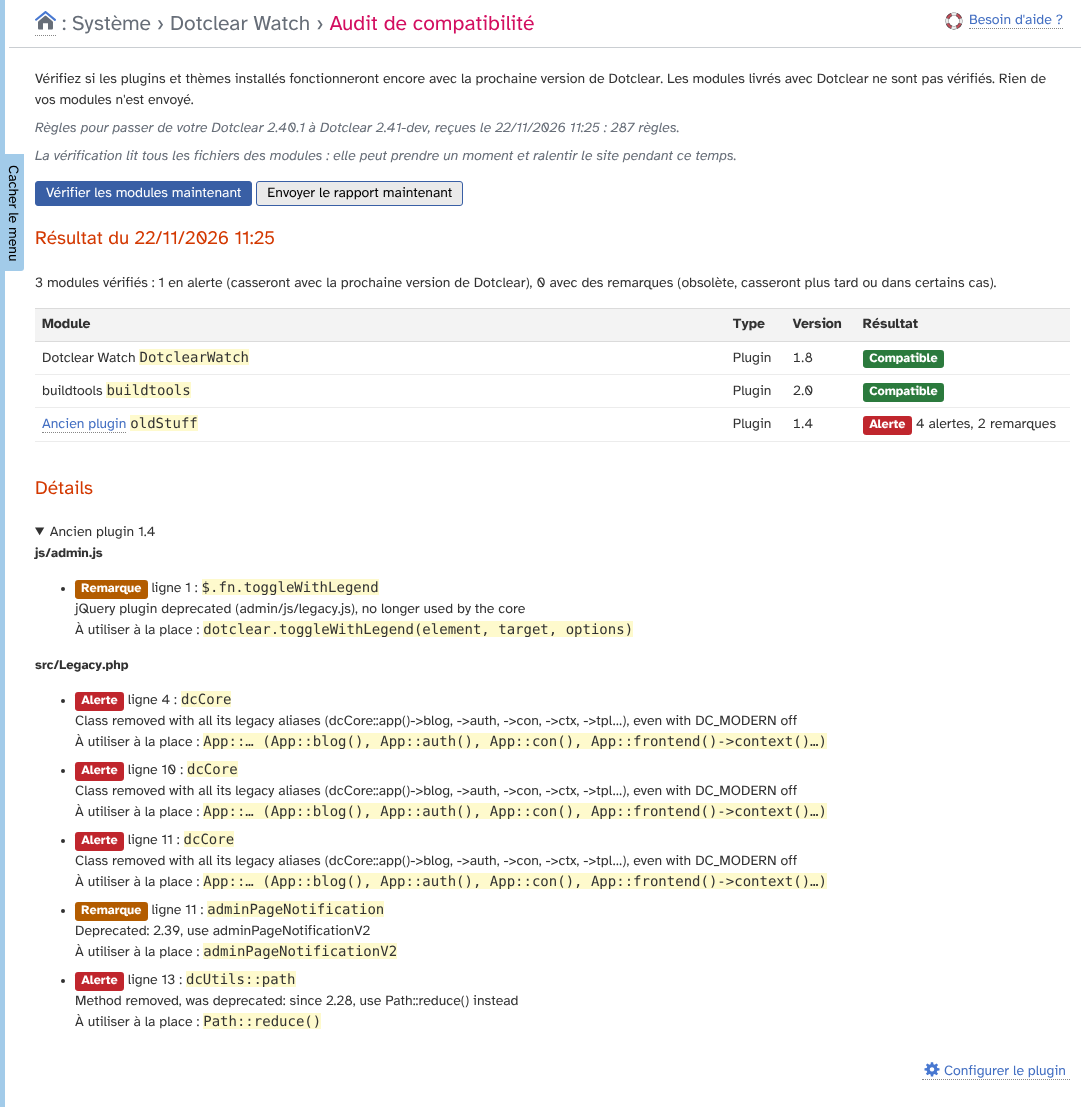
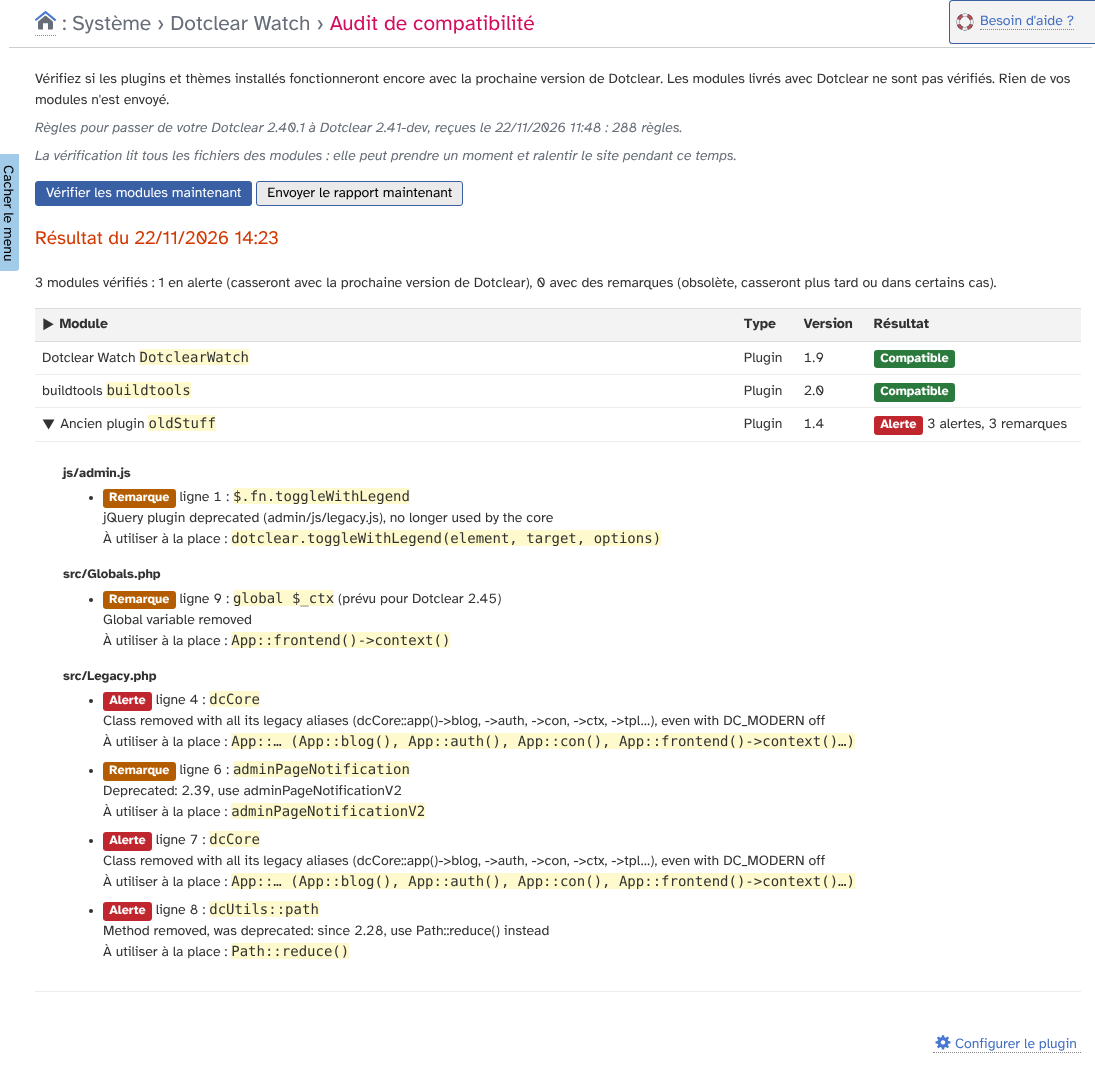
[cosmetic] Update guide and screenshot of the audit table

Changed region(s): [[0.0, 0.0, 0.9742, 1.0], [0.8524, 0.9472, 0.9742, 0.9778], [0.8524, 0.0, 0.9742, 0.0306]]

diff --git a/docs/fr/utilisation.md b/docs/fr/utilisation.md
@@ -109,7 +109,7 @@ Chaque module a un résultat :
 * **Remarque** (orange) : le module utilise quelque chose d'obsolète ; il cassera plus tard, ou dans certains cas ;
 * **Compatible** (vert) : rien n'a été trouvé.
 
-Le nom d'un module en alerte ou avec des remarques mène au **détail** : pour chaque fichier, la ligne, l'élément concerné, une explication (en anglais) et ce qu'il faut utiliser à la place. La mention « prévu pour Dotclear 2.45 » signale une règle de prévision, pour une version plus lointaine que la prochaine : elle compte comme une remarque jusqu'à ce que cette version devienne la prochaine. La mention « probable » signale un élément reconnu à son seul nom ; « le module le gère peut-être déjà » signale un fichier qui vérifie déjà la version de Dotclear : l'alerte devient alors une remarque.
+Le bouton ▶ devant un module en alerte ou avec des remarques déplie son **détail** sous sa ligne (celui des modules en alerte est déjà déplié, et le bouton de l'en-tête du tableau déplie ou replie tout) : pour chaque fichier, la ligne, l'élément concerné, une explication (en anglais) et ce qu'il faut utiliser à la place. La mention « prévu pour Dotclear 2.45 » signale une règle de prévision, pour une version plus lointaine que la prochaine : elle compte comme une remarque jusqu'à ce que cette version devienne la prochaine. La mention « probable » signale un élément reconnu à son seul nom ; « le module le gère peut-être déjà » signale un fichier qui vérifie déjà la version de Dotclear : l'alerte devient alors une remarque.
 
 Quand les règles, vos modules ou Dotclear changent, le résultat est marqué **à refaire** : relancez la vérification.
 
